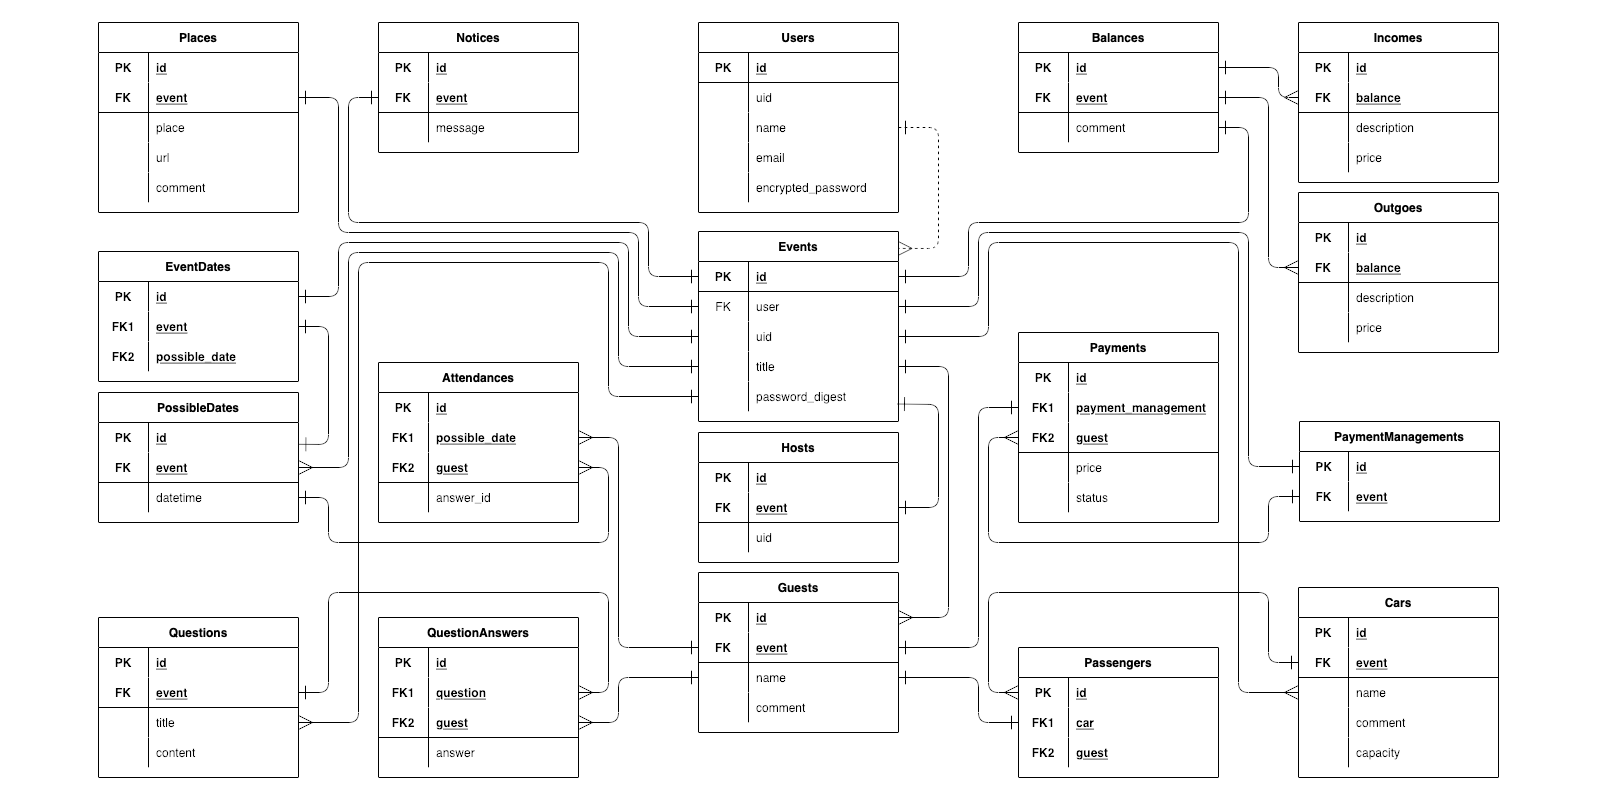
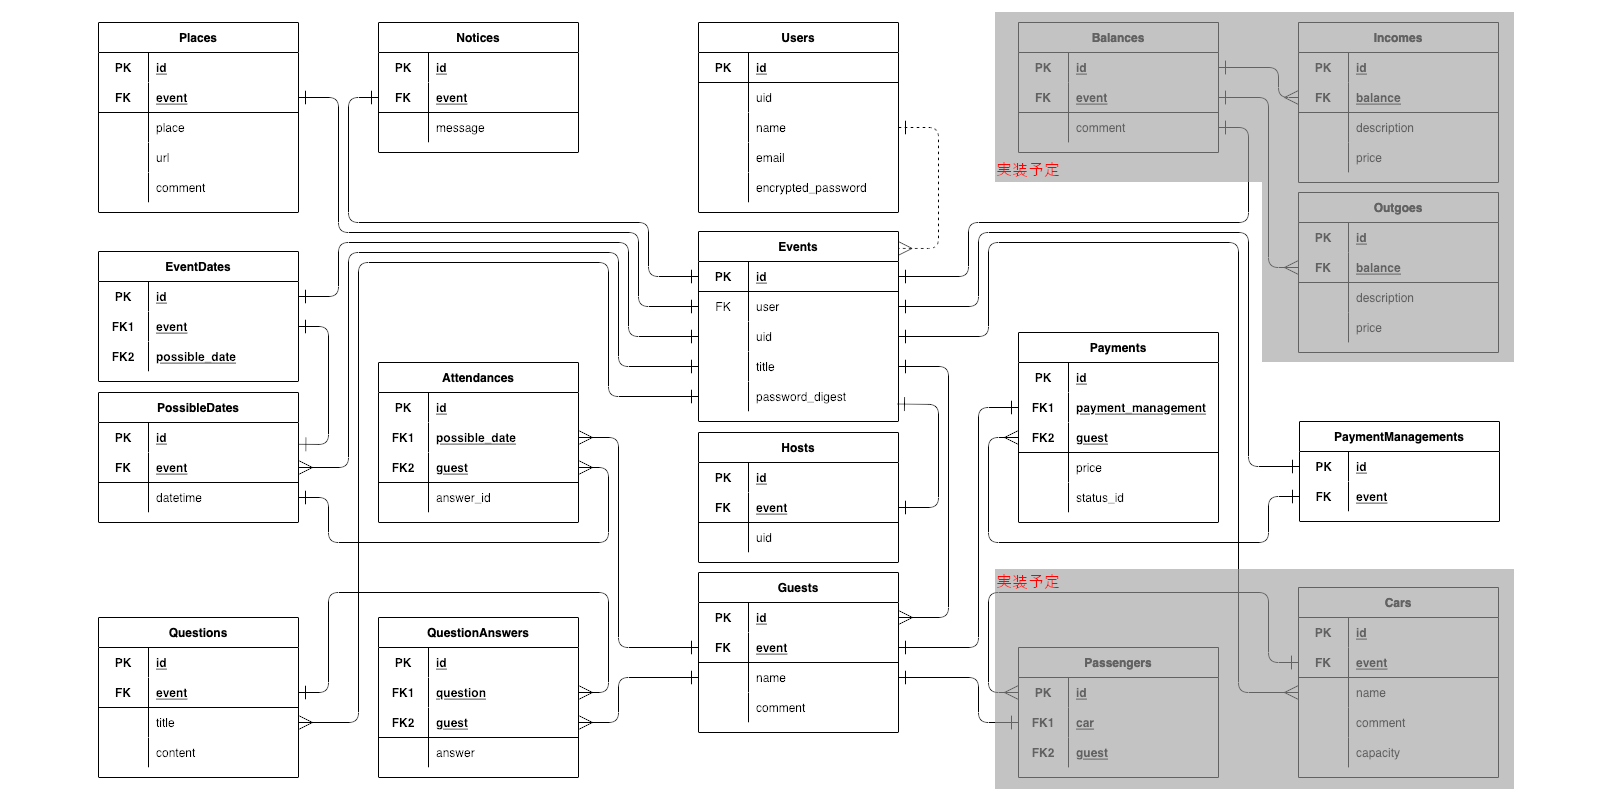
READMEの修正

Changed region(s): [[0.625, 0.0, 0.9688, 0.4688], [0.625, 0.6875, 0.9688, 1.0]]

diff --git a/README.md b/README.md
@@ -10,7 +10,8 @@ nominomo
 <br>
 
 # URL
-http://nominomo.net
+http://nominomo.net<br>
+※ 追加機能実装のため予告なく停止する場合があります
 <br>
 <br>
 
@@ -31,8 +32,8 @@ http://nominomo.net
 ユーザー登録を行わない場合以下の制限がある。
 
 - ユーザーページ(日程調整一覧)の利用不可
-- 日程調整の保存期限が無期限にならない
 - 別のブラウザ、端末から主催者(幹事)としてアクセスする場合、主催者用URLが必要になる
+- (※実装予定)日程調整の保存期限が無期限にならない
 
 ## 日程調整
 1. Topページもしくはユーザーページから日程調整を作成する
@@ -56,16 +57,15 @@ https://docs.google.com/spreadsheets/d/1-s4CTwQhnfxOJ7d44t-skg8lLZg4GL5phUQrc5jF
 <br>
 
 # 実装した機能についての画像やGIFおよびその説明
-準備中
+編集中
 <br>
 <br>
 
 # 実装予定の機能
-日程調整機能<br>
-アンケート機能<br>
 乗り合わせ調整機能<br>
-会費管理機能<br>
 会計報告機能<br>
+ログインせずに作成した調整ページを期限で削除<br>
+各種テストの強化、異常値対応の強化<br>
 <br>
 <br>
 
@@ -88,9 +88,30 @@ Docker 4.7.1<br>
 <br>
 
 # ローカルでの動作方法
-準備中
+以下のコマンドを順に実行。
+% git clone https://github.com/tomokazu-sema/nominomo<br>
+% cd nominomo<br>
+% bundle install<br>
+% yarn install <br>
+% yarn build:css<br>
+% rails db:create db:migrate<br>
+※ /config/database.ymlを修正ください (password, host)<br>
 <br>
 <br>
 
 # 工夫したポイント
-準備中
+## ログインしなくても使用可能とする
+飲み会の日程調整という理由だけで、全てのユーザーにユーザー登録してもらうことは難しいため、ユーザー登録なしでも利用できる様にした。<br>
+具体的には、
+
+- URLをランダム文字列として認証の代わりに
+- 閲覧パスワードを任意で設定可能
+- Cookieを利用したページ利用者の判別
+
+を実装した。<br>
+<br>
+
+## ネイティブアプリの操作性を重視
+メインコンテンツとなる日程調整のページでは、SPAを採用しユーザーが直感的に操作できる構成とした。<br>
+Rails7に標準で採用されているTurboを利用し、開発の省力化、コードのメンテナンス性を向上させた。<br>
+<br>
